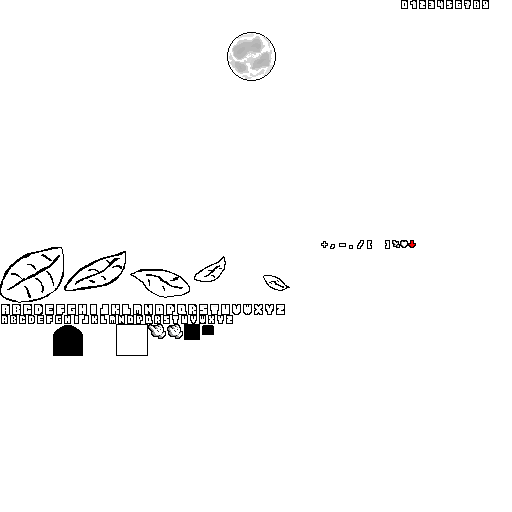
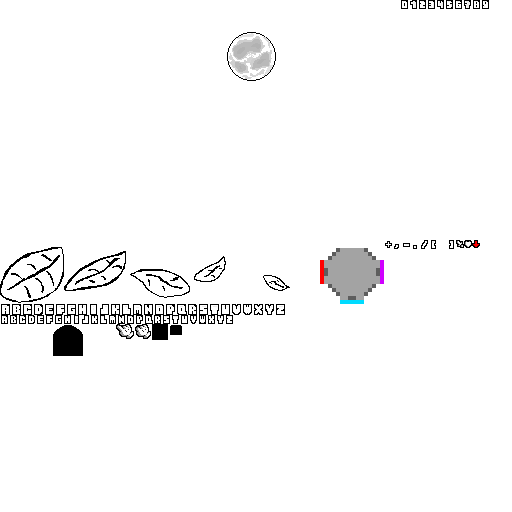
[WIP] Text bubble.

Changed region(s): [[0.625, 0.4688, 0.8438, 0.5938], [0.2188, 0.625, 0.4375, 0.6875], [0.875, 0.4688, 0.9375, 0.5]]

diff --git a/GraphicsEngine/Game/Src/Interpreters/TextInterpreter.cpp b/GraphicsEngine/Game/Src/Interpreters/TextInterpreter.cpp
@@ -3,6 +3,7 @@
 #include "JLib/Curve.h"
 #include "JLib/Math.h"
 #include "GE/SubTexture.h"
+#include <Utils/SubTextureUtils.h>
 
 namespace game
 {
@@ -207,16 +208,53 @@ namespace game
 			lineLength++;
 		}
 
-		// text bubble
-		task.position = ret.Center() + glm::vec2(size / 2);
-		task.scale = ret.Size() + glm::vec2(10);
-		task.image = nullptr;
-		task.subTexture = _createInfo.textBubbleAtlasTexture.subTexture;
-		task.color = glm::vec4(1, 1, 0, 1);
-		task.xCenter = true;
-		task.yCenter = true;
-		task.priority = false;
-		_createInfo.renderTasks->Push(task);
+		if (!job.textBubble)
+		{
+			jv::ge::SubTexture bubbleFrames[9];
+			Divide2d(_createInfo.textBubbleAtlasTexture.subTexture, bubbleFrames, 3);
+
+			const glm::ivec2 scale = ret.Size() + glm::vec2(size * 2);
+
+			// Create text bubble.
+			task.position = ret.Center() + glm::vec2(size / 2);
+			task.scale = scale;
+			task.image = nullptr;
+			task.subTexture = bubbleFrames[4];
+			task.position -= task.scale / 2;
+			task.priority = false;
+			_createInfo.renderTasks->Push(task);
+
+			const uint32_t BORDER_SCALE = 5;
+
+			task.scale = { BORDER_SCALE, BORDER_SCALE };
+
+			// Right top.
+			task.subTexture = bubbleFrames[8];
+			task.position += scale;
+			_createInfo.renderTasks->Push(task);
+
+			// Left top.
+			task.subTexture = bubbleFrames[2];
+			task.position.x -= scale.x + BORDER_SCALE;
+			_createInfo.renderTasks->Push(task);
+
+			auto cpyTask = task;
+
+			// Left bot.
+			task.subTexture = bubbleFrames[0];
+			task.position.y -= scale.y + BORDER_SCALE;
+			_createInfo.renderTasks->Push(task);
+
+			// Right bot.
+			task.subTexture = bubbleFrames[6];
+			task.position.x += scale.x + BORDER_SCALE;
+			_createInfo.renderTasks->Push(task);
+
+			cpyTask.scale.x = scale.x;
+			cpyTask.position.x += BORDER_SCALE;
+			cpyTask.subTexture = bubbleFrames[5];
+			_createInfo.renderTasks->Push(cpyTask);
+		}
 
 		return ret;
 	}

diff --git a/GraphicsEngine/Game/Src/Utils/SubTextureUtils.cpp b/GraphicsEngine/Game/Src/Utils/SubTextureUtils.cpp
@@ -15,6 +15,22 @@ namespace game
 		}
 	}
 
+	void Divide2d(const jv::ge::SubTexture& subTexture, jv::ge::SubTexture* arr, const uint32_t length)
+	{
+		const float xPartition = (subTexture.rBot.x - subTexture.lTop.x) / static_cast<float>(length);
+		const float yPartition = (subTexture.lTop.y - subTexture.rBot.y) / static_cast<float>(length);
+
+		for (uint32_t i = 0; i < length; ++i)
+			for (uint32_t j = 0; j < length; ++j)
+			{
+				auto& sub = arr[i * length + j] = subTexture;
+				sub.lTop.x += xPartition * static_cast<float>(i);
+				sub.rBot.x = sub.lTop.x + xPartition;
+				sub.rBot.y += yPartition * static_cast<float>(j);
+				sub.lTop.y = sub.rBot.y + yPartition;
+			}
+	}
+
 	jv::ge::SubTexture Mirror(const jv::ge::SubTexture& subTexture)
 	{
 		auto ret = subTexture;

diff --git a/GraphicsEngine/Game/Include/Utils/SubTextureUtils.h b/GraphicsEngine/Game/Include/Utils/SubTextureUtils.h
@@ -11,5 +11,6 @@ namespace jv
 namespace game
 {
 	void Divide(const jv::ge::SubTexture& subTexture, jv::ge::SubTexture* arr, uint32_t length);
+	void Divide2d(const jv::ge::SubTexture& subTexture, jv::ge::SubTexture* arr, uint32_t length);
 	jv::ge::SubTexture Mirror(const jv::ge::SubTexture& subTexture);
 }
